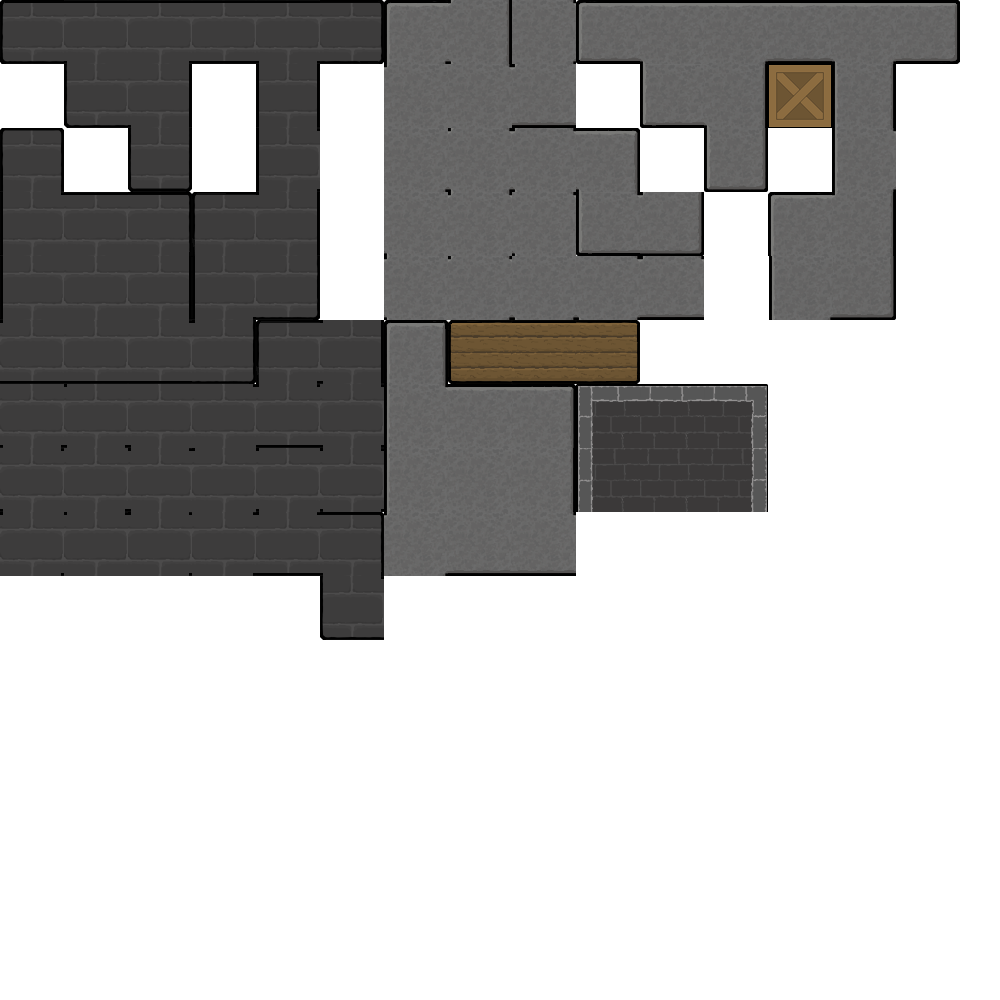
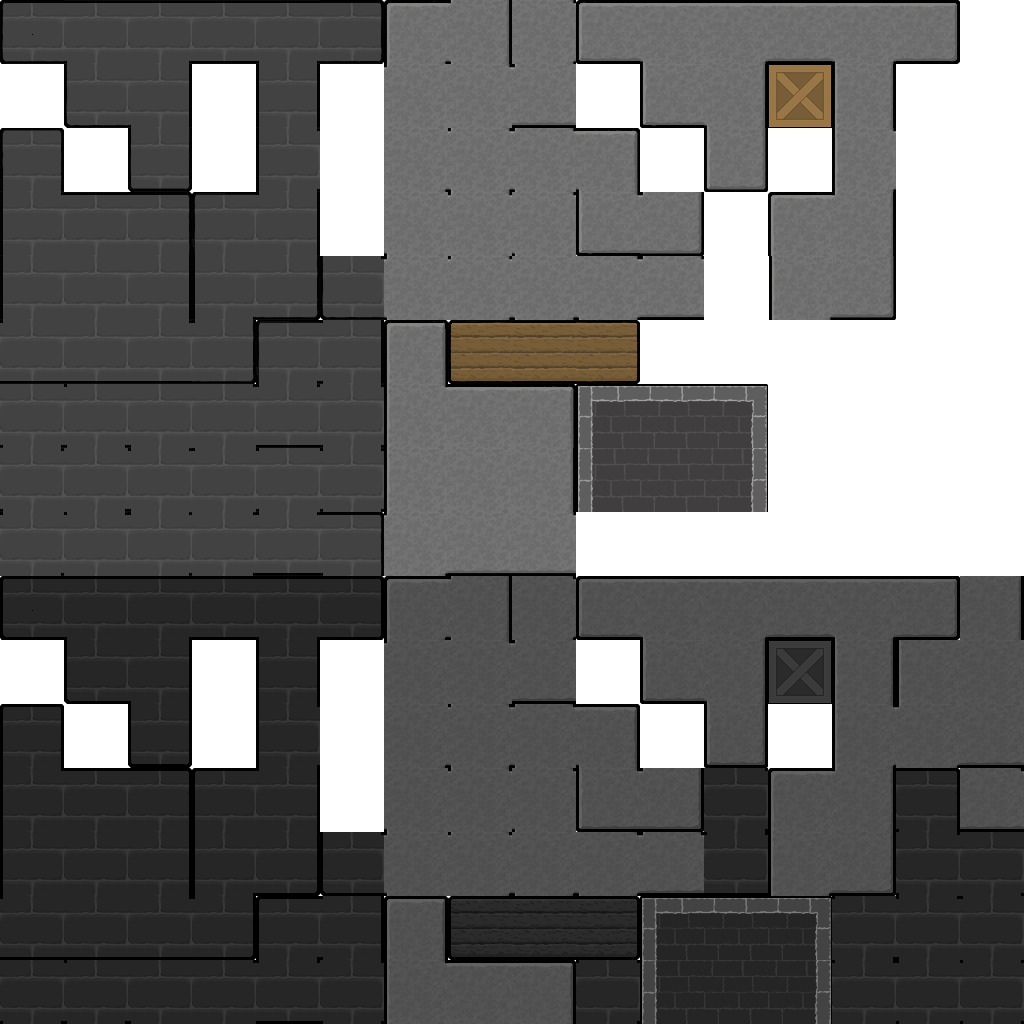
Level 1 wip

diff --git a/src/MenuScene.js b/src/MenuScene.js
@@ -19,7 +19,7 @@ MenuScene.prototype.create = function(){
     let button = new Button(this,viewport.width/2 - buttonSprite.width/2,50,0,buttonSprite);
     //button.sprite = buttonSprite;
     button.performClick = function(){
-        Game.changeScene(new TestScene(20 * Game.TILE_SIZE,20 * Game.TILE_SIZE));
+        Game.changeScene(new TestScene(60 * Game.TILE_SIZE,20* Game.TILE_SIZE));
     };
     this.addClickableObject(button);
 

diff --git a/src/Player.js b/src/Player.js
@@ -11,7 +11,7 @@ function Player(scene, x, y, depth){
     this.faceX = 1;
 
     this.moveX = 0;
-    this.VYmax = 17;
+    this.VYmax = 20;
     this.VXMax = 9;
     this.currentVX = 0;
     this.currentVY = 0;
